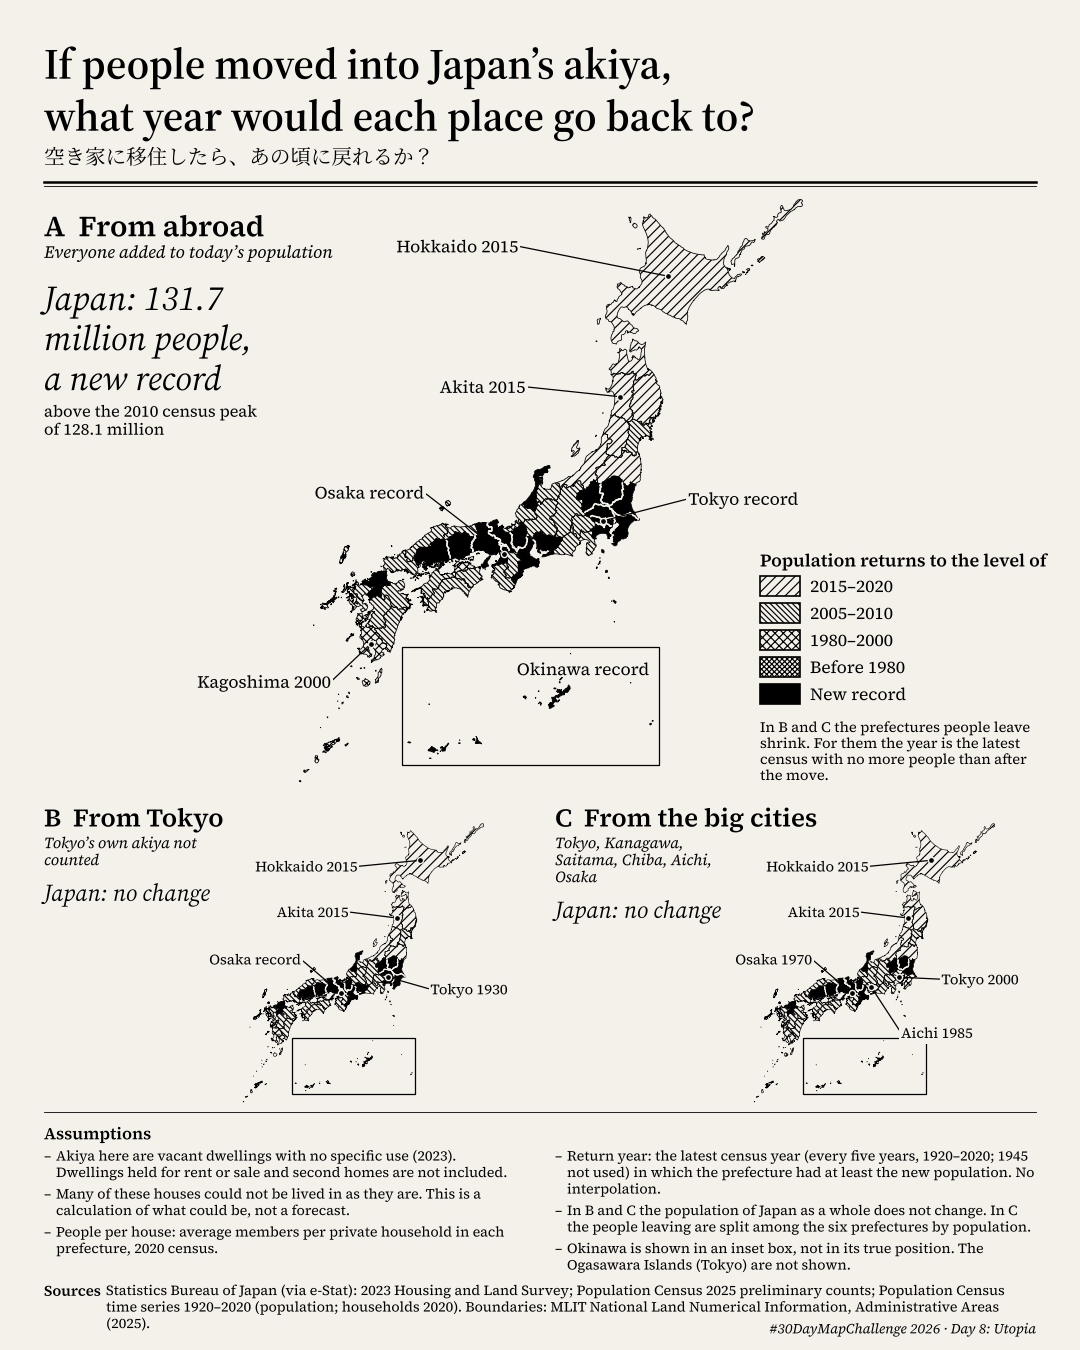
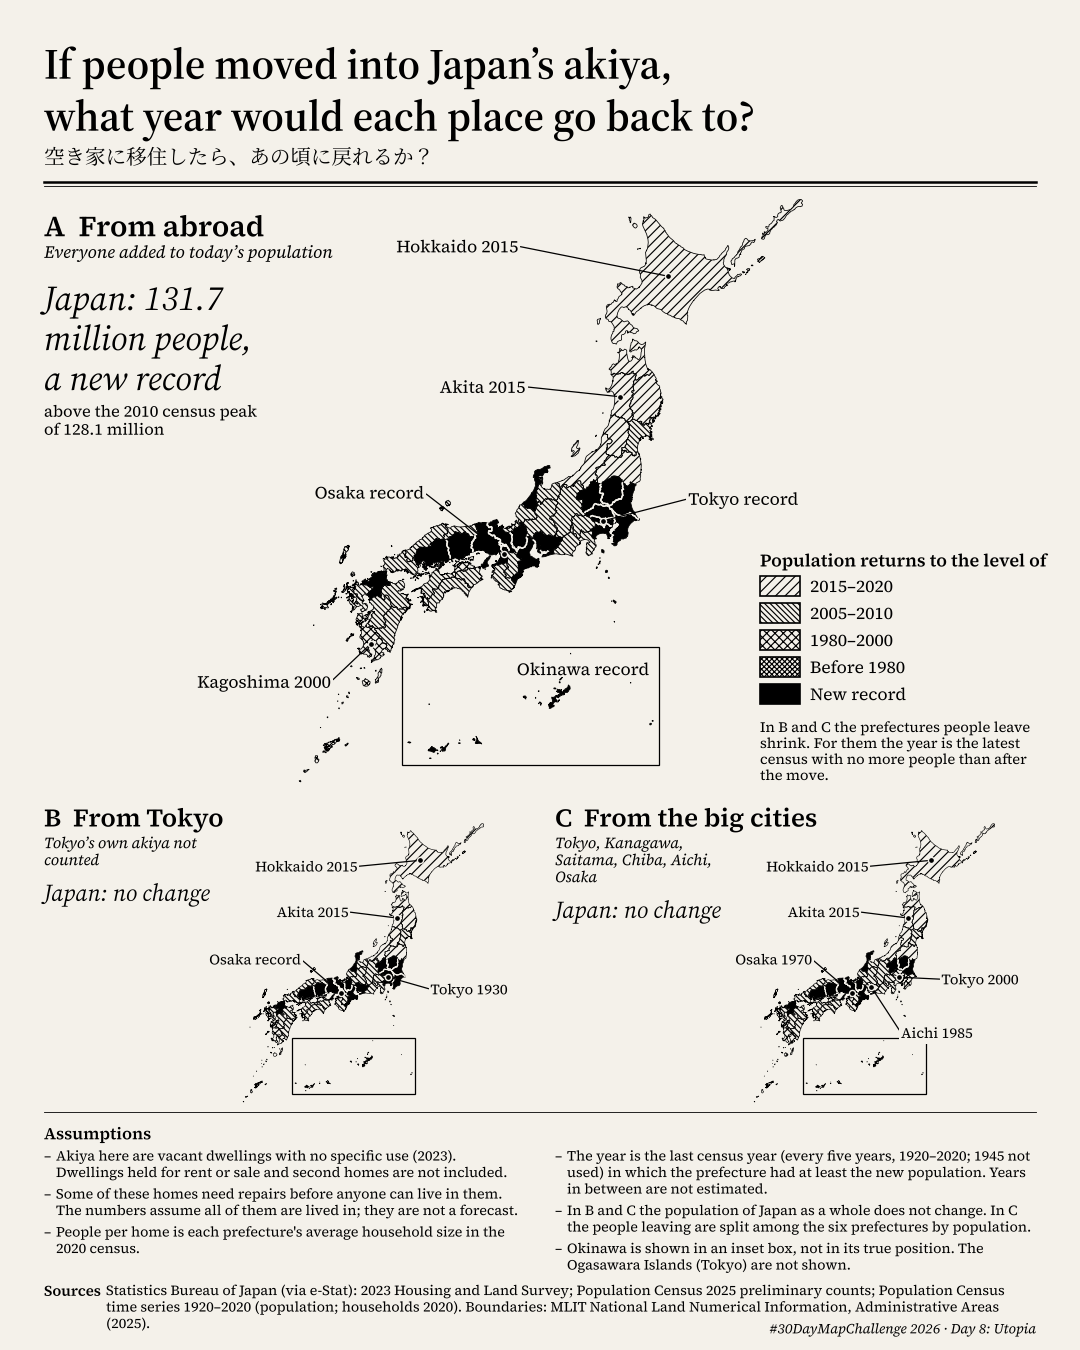
Rewrite the page notes and labels as plain sentences

Changed region(s): [[0.0306, 0.8711, 0.4583, 0.9333], [0.5194, 0.84, 0.9472, 0.9022]]

diff --git a/docs/index.html b/docs/index.html
@@ -71,7 +71,7 @@
   .vs-presets { display: grid; grid-template-columns: repeat(3, 1fr); gap: 3px; }
   .vs-presets button { font-size: .68rem; padding: 3px 0; }
   .vs-play { font-weight: 600; }
-  .vs-step { font-size: .7rem; line-height: 1.3; margin-top: 6px; }
+  .vs-step { font-size: .7rem; line-height: 1.3; margin-top: 6px; white-space: pre-line; }
   .stage-head { position: absolute; left: 0; top: 0; right: 44px; padding: 10px 14px 6px; pointer-events: none; z-index: 2; }
   .stage-head > * { display: inline-block; background: rgba(244,241,234,.85); }
   .national { font-style: italic; font-size: clamp(1.2rem, 2.2vw, 1.6rem); line-height: 1.2; margin: 0; }
@@ -232,40 +232,40 @@ const T = {
   en: {
     title: "If people moved into Japan’s akiya, what year would each place go back to?",
     subtitle: "空き家に移住したら、あの頃に戻れるか？",
-    whereFrom: "Who moves in?",
-    gIn: "Within Japan", gInSub: "total stays the same", gOut: "From abroad", gOutSub: "",
-    A: "Abroad", Asub: "Japan grows",
-    B: "From Tokyo", Bsub: "Tokyo shrinks",
-    C: "From big cities", Csub: "6 prefectures shrink",
+    whereFrom: "Where do the people come from?",
+    gIn: "Within Japan", gInSub: "Japan’s total stays the same", gOut: "From abroad", gOutSub: "",
+    A: "From abroad", Asub: "Japan gains people",
+    B: "From Tokyo", Bsub: "Tokyo loses people",
+    C: "From big cities", Csub: "Six prefectures lose people",
     rate: "People\nmoving in", play: "\u25b6 Play", stop: "\u25a0 Stop",
     short: n => n === 0 ? "0" : n >= 1e6 ? (n / 1e6).toFixed(n >= 1e7 ? 1 : 2) + "M" : Math.round(n / 1e3) + "k",
     thumb: n => T.en.short(n),
-    step: n => `Drag up. One step (5%) = ${T.en.short(n)} people.`,
+    step: n => `One step (5%) is\nabout ${T.en.short(n)} people`,
     moversLine: (n, h) => `${fmtM(n)} people move into ${fmtM(h)} akiya.`,
-    hint: "Drag to turn. Tap a prefecture.",
+    hint: "Drag the map to turn it. Click a prefecture to see its numbers.",
     natRecord: p => `Japan: ${fmtM(p)}, the most ever`,
     natBack: (p, y) => `Japan: back to ${y}`,
     natSame: "Japan: no change",
     natSubRecord: (pk, y) => `Peak so far: ${fmtM(pk)} (${y}).`,
-    natSubSame: "People only move within Japan.",
-    legendT: "Height = the year it goes back to",
-    legend: { up: "Gains people", down: "Loses people", rec: "Below now: the most ever", same: "No change" },
+    natSubSame: "People move within Japan, so the total does not change.",
+    legendT: "The height of each prefecture shows the year its population goes back to.",
+    legend: { up: "Gains people", down: "Loses people", rec: "Below today’s layer: more people than ever", same: "No change" },
     today: "Now (2025)", recLayer: "Most ever",
     name: p => p.en, alt: p => p.ja,
     backTo: "Back to", record: "Most ever", recordSub: "more than at any census since 1920", low: "Fewest ever", same: "No change",
-    rows: { akiya: "Akiya", pph: "People per home", pop2025: "Now (2025)", move: "Moving in", out: "Moving out", newPop: "After" },
-    chartNote: y => y ? `Dashed line: after the move. Ring: ${y}.` : "Dashed line: after the move.",
-    sending: "For a place that loses people, the year is when it was last this small.",
-    tokyoB: "Tokyo’s own akiya are not counted.",
+    rows: { akiya: "Akiya", pph: "People per home", pop2025: "Population 2025", move: "Moving in", out: "Moving out", newPop: "After the move" },
+    chartNote: y => y ? `The dashed line is the population after the move. The ring marks ${y}.` : "The dashed line is the population after the move.",
+    sending: "This prefecture loses people. The year shown is the last census with no more people than after the move.",
+    tokyoB: "Moves into akiya inside Tokyo are not counted.",
     notesH: "Notes",
     notes: [
-      "Akiya: empty homes with no use, 3.86 million (2023). Homes for rent or sale and second homes are not counted.",
+      "Akiya here are 3.86 million empty homes with no planned use (2023). Homes for rent or sale and second homes are not included.",
       "Some of these homes need repairs before anyone can live in them. The numbers assume all of them are lived in; they are not a forecast.",
-      "People per home: each prefecture’s average household size (2020). At 100%, 8.67 million people move.",
-      "Starting point: 2025 census (preliminary).",
-      "Year: the latest census (every 5 years, 1920–2020, without 1945) with at least that many people. No years in between.",
-      "B and C: Japan’s total stays the same. In C, the 6 prefectures give people in proportion to their size.",
-      "Okinawa is moved into a box. The Ogasawara Islands are not shown.",
+      "People per home is each prefecture’s average household size in 2020. If all akiya are filled, 8.67 million people move.",
+      "The population before the move is the 2025 census preliminary count.",
+      "The year is the last census year with at least the new population. Censuses are every five years from 1920 to 2020; 1945 is not used. Years in between are not estimated.",
+      "When people come from Tokyo or the big cities, Japan’s total does not change. From the big cities, each of the six prefectures sends people in proportion to its population.",
+      "Okinawa is shown in a box away from its true position. The Ogasawara Islands are not shown.",
     ],
     srcH: "Sources",
     sources: [
@@ -280,40 +280,40 @@ const T = {
   ja: {
     title: "空き家に移住したら、あの頃に戻れるか？",
     subtitle: "If people moved into Japan’s akiya, what year would each place go back to?",
-    whereFrom: "誰が移住する？",
-    gIn: "国内から", gInSub: "日本全体は変わらない", gOut: "国外から", gOutSub: "",
-    A: "海外から", Asub: "日本の人口が増える",
-    B: "東京から", Bsub: "東京が減る",
+    whereFrom: "どこから移住するか",
+    gIn: "国内から", gInSub: "日本全体の人口は変わらない", gOut: "国外から", gOutSub: "",
+    A: "海外から", Asub: "日本全体が増える",
+    B: "東京から", Bsub: "東京の人口が減る",
     C: "大都市から", Csub: "6都府県が減る",
     rate: "移住する\n人数", play: "\u25b6 再生", stop: "\u25a0 停止",
     short: n => n === 0 ? "0人" : fmtJ(n),
     thumb: n => fmtJ(n),
-    step: n => `上へドラッグ。1刻み（5%）＝${fmtJ(n)}`,
-    moversLine: (n, h) => `${fmtJ(n)}が空き家${fmtJ(h).replace("人", "戸")}に移住。`,
-    hint: "ドラッグで回転。県をタップで詳しく。",
+    step: n => `1目盛り（5%）は\n約${fmtJ(n)}`,
+    moversLine: (n, h) => `${fmtJ(n)}が、空き家${fmtJ(h).replace("人", "戸")}に移住する。`,
+    hint: "地図はドラッグで回転できる。県をクリックすると詳しい数字が出る。",
     natRecord: p => `日本全体：${fmtJ(p)}（過去最多）`,
     natBack: (p, y) => `日本全体：${y}年に戻る`,
     natSame: "日本全体：変わらない",
     natSubRecord: (pk, y) => `これまでの最多は${y}年の${fmtJ(pk)}。`,
-    natSubSame: "国内で動くだけ。",
-    legendT: "高さ＝戻る年",
-    legend: { up: "人が増える", down: "人が減る", rec: "今より下：過去最多", same: "変わらない" },
+    natSubSame: "国内での移動なので、日本全体の人口は変わらない。",
+    legendT: "板の高さは、人口が戻る年を表す。",
+    legend: { up: "人口が増える県", down: "人口が減る県", rec: "今より下の層：過去最多になる県", same: "変わらない県" },
     today: "今（2025年）", recLayer: "過去最多",
     name: p => p.ja, alt: p => p.en,
-    backTo: "戻る年", record: "過去最多", recordSub: "1920年以降でいちばん多い", low: "過去最少", same: "変わらない",
-    rows: { akiya: "空き家", pph: "1世帯の人数", pop2025: "今（2025年）", move: "移住してくる人", out: "出ていく人", newPop: "移動後" },
-    chartNote: y => y ? `破線＝移動後の人口、丸＝${y}年` : "破線＝移動後の人口",
-    sending: "人が減る県は、この人数まで少なかった最後の年を示す。",
-    tokyoB: "東京の空き家は数えない。",
+    backTo: "戻る年", record: "過去最多", recordSub: "1920年以降の国勢調査で最も多い", low: "過去最少", same: "変わらない",
+    rows: { akiya: "空き家", pph: "1世帯の人数", pop2025: "2025年の人口", move: "移住してくる人", out: "出ていく人", newPop: "移動後の人口" },
+    chartNote: y => y ? `破線は移動後の人口。丸は同じくらいの人口だった${y}年。` : "破線は移動後の人口。",
+    sending: "人口が減る県は、移動後の人口以下だった最後の年を示している。",
+    tokyoB: "東京都内の空き家への移住は数えていない。",
     notesH: "注記",
     notes: [
-      "空き家：使う予定のない空き家386万戸（2023年）。賃貸用・売却用・別荘などは含まない。",
+      "対象は、使う予定のない空き家386万戸（2023年）。賃貸用・売却用の空き家や別荘は含まない。",
       "空き家には、修理しないと住めない家も含まれる。すべてに人が住んだと仮定して計算したもので、将来の予測ではない。",
-      "1戸に住む人数：都道府県ごとの1世帯の平均人数（2020年）。100%で867万人。",
-      "出発点：2025年国勢調査（速報）。",
-      "戻る年：その人数以上だった最後の国勢調査の年（5年ごと、1920〜2020年、1945年は除く）。間の年は出さない。",
-      "BとC：日本全体の人数は変わらない。Cは6都府県が人口の割合で人を出す。",
-      "沖縄は枠に入れて表示。小笠原諸島は表示しない。",
+      "1戸に住む人数は、都道府県ごとの1世帯の平均人数（2020年）とした。すべてに住むと867万人になる。",
+      "移住前の人口は、2025年国勢調査の速報値を使った。",
+      "戻る年は、移動後の人口以上だった最後の国勢調査の年とした。国勢調査は5年ごとで、1920〜2020年のうち1945年は使っていない。間の年は推計しない。",
+      "「東京から」「大都市から」では、日本全体の人口は変わらない。「大都市から」は、6都府県が人口の割合に応じて人を出すとした。",
+      "沖縄は実際の位置からずらして枠の中に表示した。小笠原諸島は表示していない。",
     ],
     srcH: "出典",
     sources: [

diff --git a/scripts/render.py b/scripts/render.py
@@ -82,11 +82,11 @@ TEXT = {
         "notes": [
             "Akiya here are vacant dwellings with no specific use (2023). Dwellings held for rent or "
             "sale and second homes are not included.",
-            "Many of these houses could not be lived in as they are. This is a calculation of what "
-            "could be, not a forecast.",
-            "People per house: average members per private household in each prefecture, 2020 census.",
-            "Return year: the latest census year (every five years, 1920–2020; 1945 not used) in "
-            "which the prefecture had at least the new population. No interpolation.",
+            "Some of these homes need repairs before anyone can live in them. The numbers assume "
+            "all of them are lived in; they are not a forecast.",
+            "People per home is each prefecture's average household size in the 2020 census.",
+            "The year is the last census year (every five years, 1920–2020; 1945 not used) in "
+            "which the prefecture had at least the new population. Years in between are not estimated.",
             "In B and C the population of Japan as a whole does not change. In C the people leaving "
             "are split among the six prefectures by population.",
             "Okinawa is shown in an inset box, not in its true position. The Ogasawara Islands "
@@ -129,14 +129,14 @@ TEXT = {
             "対象は2023年の「使用目的のない空き家」"
             "（賃貸・売却用及び二次的住宅を除く空き家）。"
             "賃貸用・売却用・別荘などは含まない。",
-            "空き家にはそのままでは住めないものも"
-            "含まれる。予測ではなく、「ありえるか"
-            "もしれない」仮定の計算である。",
+            "空き家には、修理しないと住めない家も含まれる。"
+            "すべてに人が住んだと仮定して計算したもので、"
+            "将来の予測ではない。",
             "1戸に住む人数は、2020年国勢調査の都道府県"
             "別「一般世帯の1世帯当たり人員」を使った。",
-            "戻る年は、新しい人口以上だった最も新しい"
-            "国勢調査の年（1920〜2020年、5年ごと。1945年は"
-            "使わない）。補間はしない。",
+            "戻る年は、移動後の人口以上だった最後の"
+            "国勢調査の年とした（1920〜2020年、5年ごと。1945年は"
+            "使わない）。間の年は推計しない。",
             "BとCでは日本全体の人口は変わらない。"
             "Cの転出者は6都府県の人口の割合で分けた。",
             "沖縄県は別枠で、実際の位置とは違う場所に"

diff --git a/README.md b/README.md
@@ -102,11 +102,11 @@ cd scripts && python build_web.py    # -> docs/data/akiya.json, prefectures.geoj
 
 **English**
 
-> A black-and-white map of Japan titled "If people moved into Japan's akiya, what year would each place go back to?". Prefectures are hatched by the census year their population would return to if 3.86 million vacant homes with no specific use were filled at each prefecture's average household size (8.67 million people). Large map, people from abroad: Japan would reach 131.7 million, above every census. Most of Hokkaido, Tohoku, Shikoku and Kyushu go back only to 2000–2015 (Hokkaido 2015, Akita 2015, Kagoshima 2000); 18 prefectures, including Tokyo, Osaka and Okinawa, set new records. Two smaller maps, where Japan's total does not change: people from Tokyo, Tokyo falls to its 1930 level; people from the six big-city prefectures, Osaka goes back to 1970, Aichi to 1985 and Tokyo to 2000. Notes: the count excludes homes for rent or sale and second homes, many akiya are not fit to live in, and this is a "what could be" calculation, not a forecast.
+> A black-and-white map of Japan titled "If people moved into Japan's akiya, what year would each place go back to?". Prefectures are hatched by the census year their population would return to if 3.86 million vacant homes with no specific use were filled at each prefecture's average household size (8.67 million people). Large map, people from abroad: Japan would reach 131.7 million, above every census. Most of Hokkaido, Tohoku, Shikoku and Kyushu go back only to 2000–2015 (Hokkaido 2015, Akita 2015, Kagoshima 2000); 18 prefectures, including Tokyo, Osaka and Okinawa, set new records. Two smaller maps, where Japan's total does not change: people from Tokyo, Tokyo falls to its 1930 level; people from the six big-city prefectures, Osaka goes back to 1970, Aichi to 1985 and Tokyo to 2000. The count excludes homes for rent or sale and second homes. Some akiya need repairs before anyone can live in them, and the numbers assume all of them are lived in; they are not a forecast.
 
 **日本語**
 
-> 「空き家に移住したら、あの頃に戻れるか？」と題した白黒の日本地図。使用目的のない空き家386万戸に都道府県ごとの平均世帯人員で人が住んだ場合（867万人）、各都道府県の人口が何年の国勢調査の水準に戻るかを斜線の種類で示す。大きな地図は海外から来る場合で、日本全体は1億3,172万人と過去最多になる。北海道・東北・四国・九州の多くは2000〜2015年までしか戻らず（北海道2015年、秋田2015年、鹿児島2000年）、東京・大阪・沖縄など18都府県は過去最多を更新する。小さな2枚の地図は日本全体の人口が変わらない場合で、東京から来ると東京は1930年の水準まで減り、大都市6都府県から来ると大阪は1970年、愛知は1985年、東京は2000年に戻る。注記：賃貸用・売却用・別荘などは含まない。空き家にはそのまま住めないものも含まれ、予測ではなく「ありえるかもしれない」仮定の計算である。
+> 「空き家に移住したら、あの頃に戻れるか？」と題した白黒の日本地図。使用目的のない空き家386万戸に都道府県ごとの平均世帯人員で人が住んだ場合（867万人）、各都道府県の人口が何年の国勢調査の水準に戻るかを斜線の種類で示す。大きな地図は海外から来る場合で、日本全体は1億3,172万人と過去最多になる。北海道・東北・四国・九州の多くは2000〜2015年までしか戻らず（北海道2015年、秋田2015年、鹿児島2000年）、東京・大阪・沖縄など18都府県は過去最多を更新する。小さな2枚の地図は日本全体の人口が変わらない場合で、東京から来ると東京は1930年の水準まで減り、大都市6都府県から来ると大阪は1970年、愛知は1985年、東京は2000年に戻る。賃貸用・売却用の空き家や別荘は含まない。空き家には修理しないと住めない家も含まれ、すべてに人が住んだと仮定した計算で、将来の予測ではない。
 
 ## Results by prefecture
 
